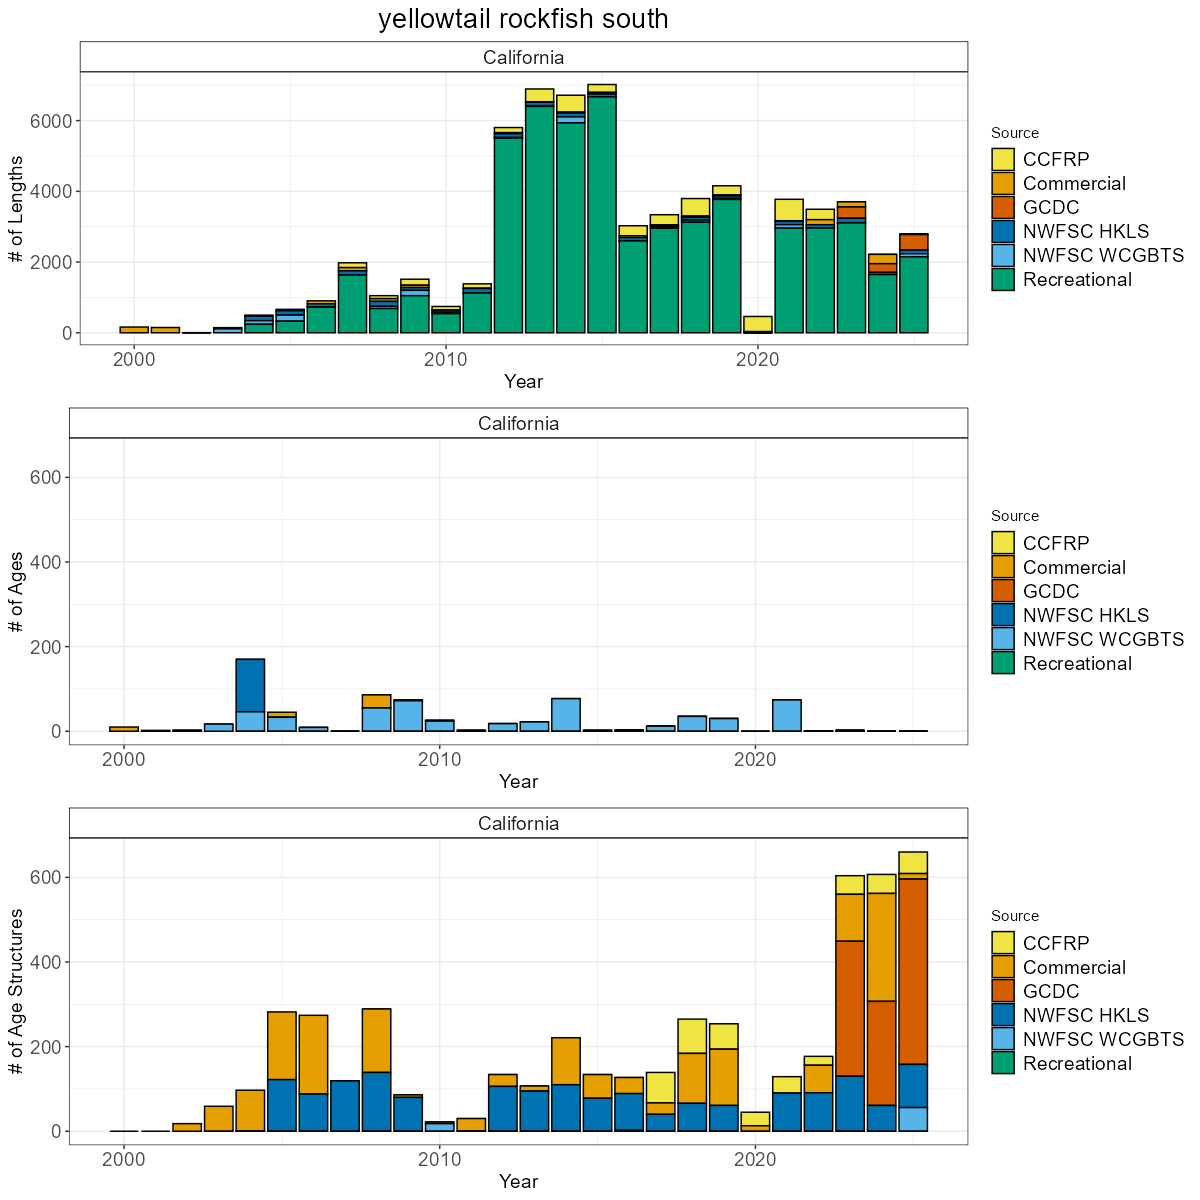
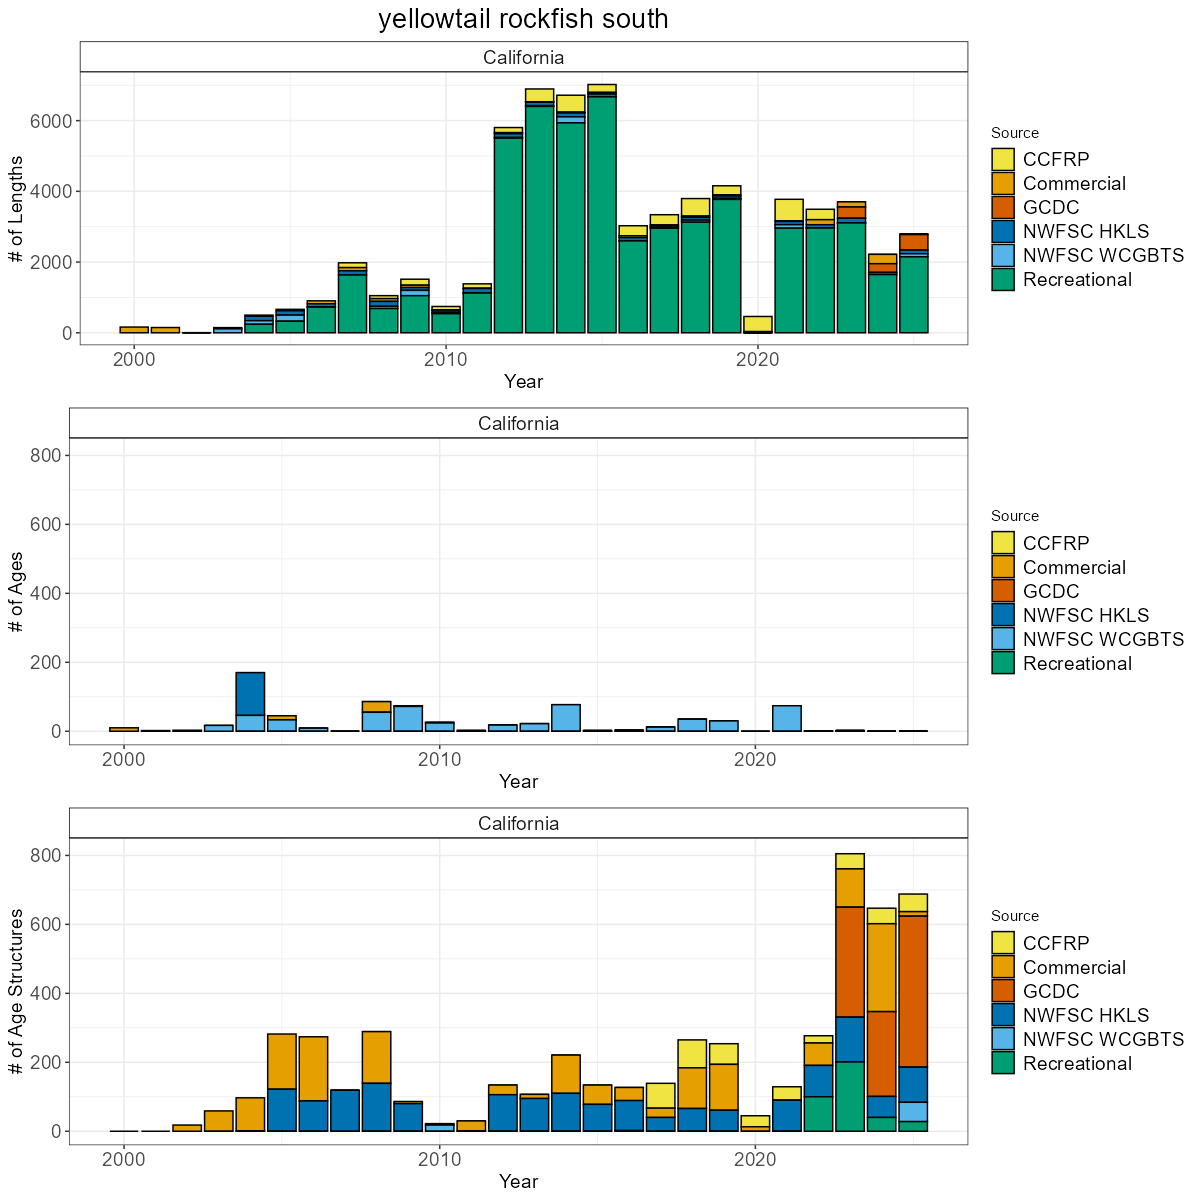
merge files

diff --git a/report/00_data_report.tex b/report/00_data_report.tex
@@ -592,7 +592,7 @@ California & CCFRP & 53 & 0 & 0\\
 California & Commercial & 14,780 & 121 & 4,526\\
 California & NWFSC HKLS & 22,667 & 0 & 14,376\\
 California & NWFSC WCGBTS & 11,222 & 2,760 & 4,559\\
-California & Recreational & 43,902 & 0 & 0\\
+California & Recreational & 43,902 & 0 & 165\\
 Oregon & Commercial & 5,193 & 0 & 5,262\\
 Oregon & NWFSC WCGBTS & 297 & 20 & 183\\
 Oregon & Recreational & 1,263 & 0 & 0\\
@@ -1210,7 +1210,7 @@ State & Source & Lengths & Ages & Age Structures\\
 \endlastfoot
 California & Commercial & 63,059 & 0 & 131\\
 California & NWFSC WCGBTS & 50,554 & 0 & 12,492\\
-California & Recreational & 4 & 0 & 0\\
+California & Recreational & 4 & 0 & 1\\
 Oregon & Commercial & 38,536 & 0 & 42,380\\
 Oregon & NWFSC WCGBTS & 44,504 & 0 & 7,554\\
 Washington & Commercial & 23,354 & 0 & 2,855\\
@@ -1311,8 +1311,8 @@ California & CCFRP & 17 & 0 & 0\\
 California & Commercial & 12,039 & 3,352 & 3,535\\
 California & NWFSC HKLS & 940 & 0 & 917\\
 California & NWFSC WCGBTS & 2,149 & 1,363 & 108\\
-California & Recreational & 6,142 & 0 & 0\\
-Oregon & Commercial & 38,816 & 15,003 & 25,916\\
+California & Recreational & 6,142 & 0 & 18\\
+Oregon & Commercial & 38,816 & 15,003 & 25,915\\
 Oregon & NWFSC WCGBTS & 2,195 & 1,417 & 44\\
 Oregon & Recreational & 7,308 & 0 & 0\\
 Washington & Commercial & 21,815 & 14,288 & 1,980\\
@@ -1410,7 +1410,7 @@ California & Commercial & 1,624 & 62 & 1,688\\
 California & GCDC & 1,003 & 0 & 1,003\\
 California & NWFSC HKLS & 2,011 & 124 & 1,666\\
 California & NWFSC WCGBTS & 1,158 & 534 & 77\\
-California & Recreational & 56,118 & 0 & 0\\*
+California & Recreational & 56,118 & 0 & 369\\*
 \end{longtable}
 \endgroup{}
 \endgroup{}
@@ -4040,7 +4040,7 @@ State & Source & Lengths & Ages & Age Structures\\
 California & CCFRP & 125 & 0 & 0\\
 California & Commercial & 4,894 & 695 & 0\\
 California & NWFSC WCGBTS & 867 & 292 & 76\\
-California & Recreational & 3,911 & 0 & 0\\
+California & Recreational & 3,911 & 0 & 13\\
 Oregon & Commercial & 49,279 & 37,328 & 122\\
 Oregon & NWFSC WCGBTS & 3,979 & 1,947 & 446\\
 Oregon & Recreational & 44,826 & 0 & 204\\
